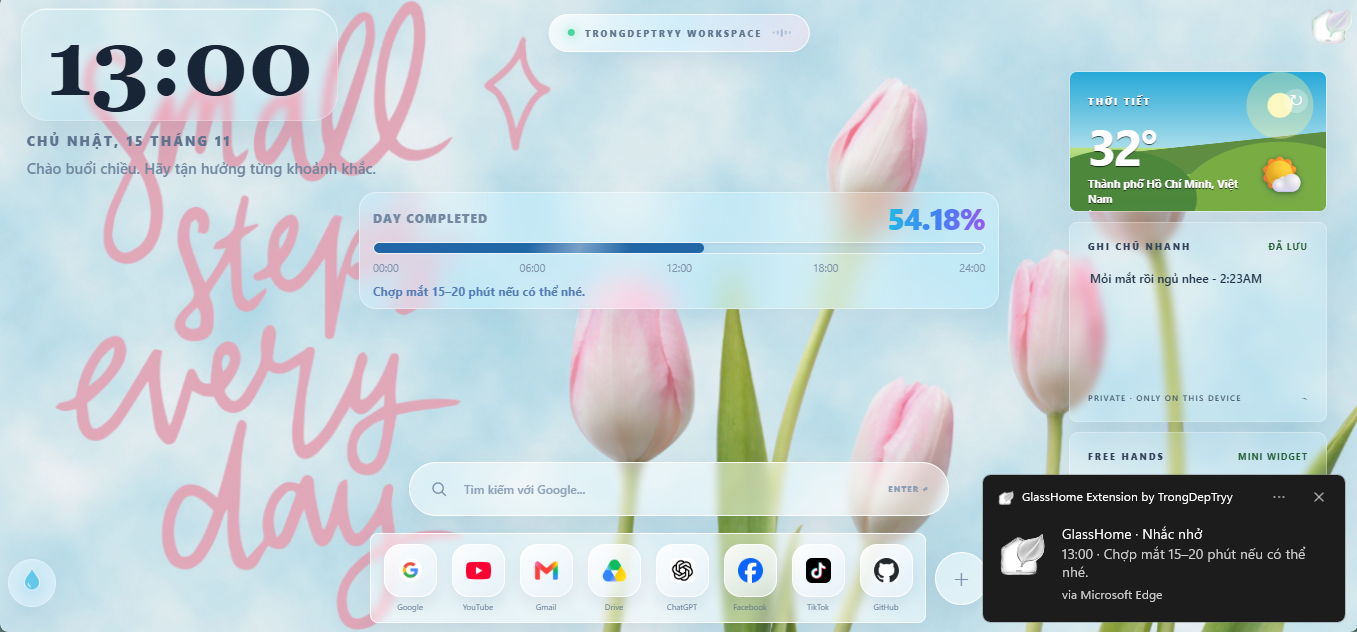
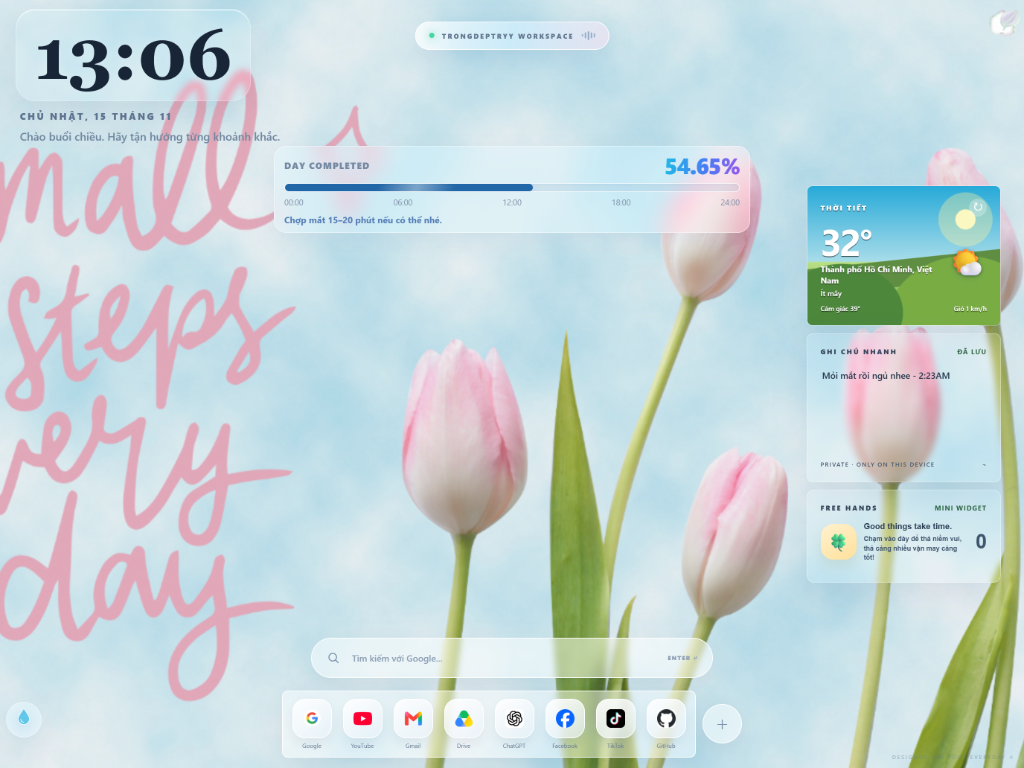
Update image demo
just tiny thing

diff --git a/styles.css b/styles.css
@@ -162,7 +162,7 @@ h1, h2, h3 { font-family: Manrope, "Be Vietnam Pro", sans-serif; }
   transform-style: preserve-3d;
   transition: transform .35s ease, box-shadow .35s ease;
 }
-.demo-image { display: block; width: 100%; height: auto; aspect-ratio: 1032 / 700; object-fit: cover; }
+.demo-image { display: block; width: 100%; height: auto; aspect-ratio: 4 / 3; object-fit: cover; }
 .demo-caption { display: flex; align-items: center; gap: 8px; padding: 10px 13px; border-top: 1px solid rgba(190, 210, 232, .13); background: rgba(13, 19, 28, .96); color: #a2b3c5; font: 700 7px Manrope, sans-serif; letter-spacing: .14em; }
 .demo-caption span { width: 5px; height: 5px; border-radius: 50%; background: var(--accent); box-shadow: 0 0 9px var(--accent); }
 .scene-orbit { position: absolute; top: 50%; left: 50%; z-index: 0; width: 118%; height: 118%; border: 1px solid rgba(136, 229, 209, .18); border-radius: 50%; pointer-events: none; transform: translate(-50%, -50%) rotate(-18deg); animation: orbit-drift 30s linear infinite; }

diff --git a/index.html b/index.html
@@ -63,7 +63,7 @@
           <span class="scene-spark spark-two" aria-hidden="true">✧</span>
           <span class="scene-spark spark-three" aria-hidden="true">✳</span>
           <figure class="demo-image-shell">
-            <img class="demo-image" src="./image/glasshome-demo.png" alt="Ảnh chụp giao diện GlassHome với đồng hồ, tiến trình ngày, thời tiết, ghi chú và các widget cá nhân." width="1032" height="700" decoding="async">
+            <img class="demo-image" src="./image/glasshome-demo.png" alt="Ảnh chụp giao diện GlassHome với đồng hồ, tiến trình ngày, thời tiết, ghi chú và các widget cá nhân." width="1024" height="768" decoding="async">
             <figcaption class="demo-caption"><span></span> GIAO DIỆN THỰC TẾ CỦA GLASSHOME</figcaption>
           </figure>
           <div class="float-chip chip-weather"><span>✿</span> Không gian của riêng bạn</div>
